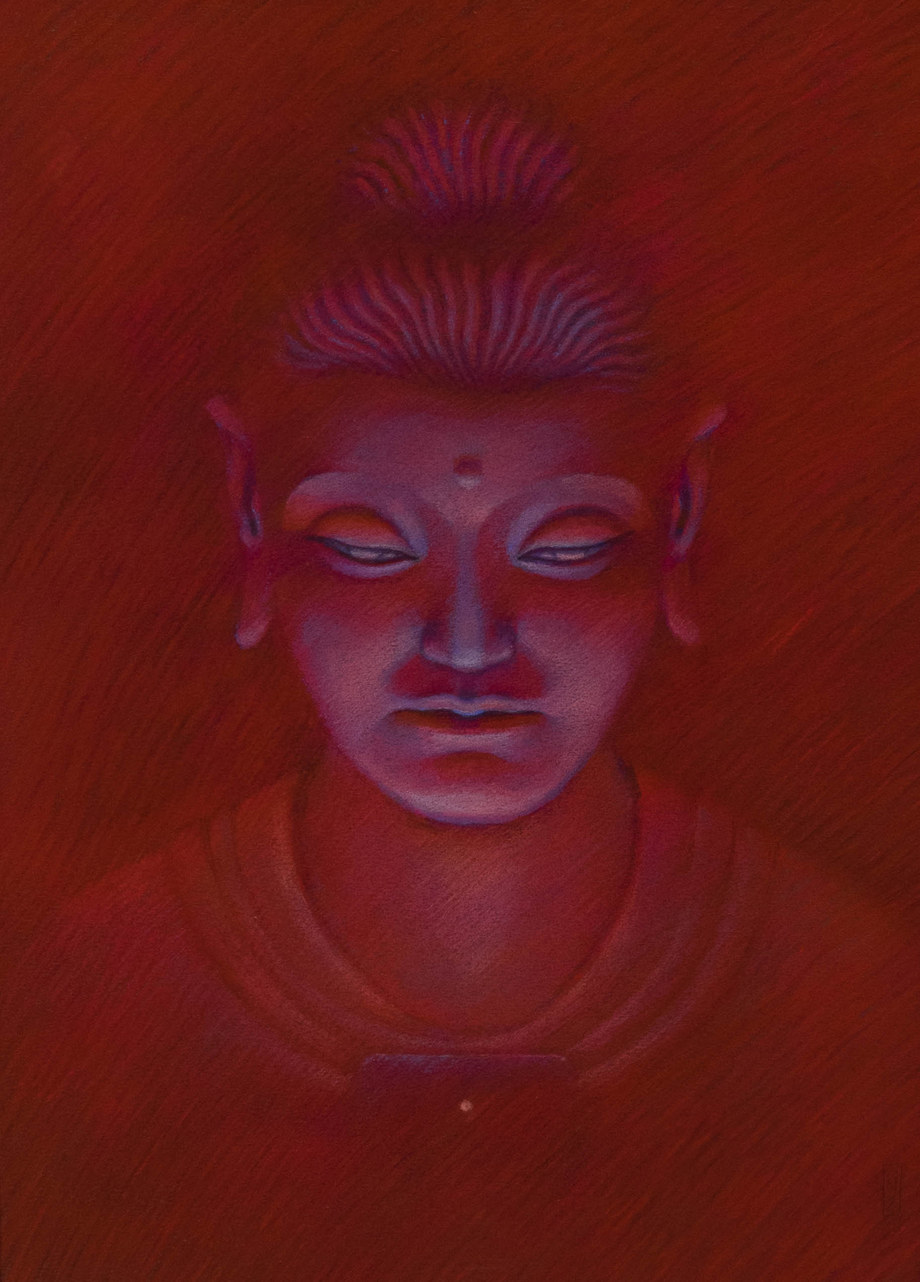
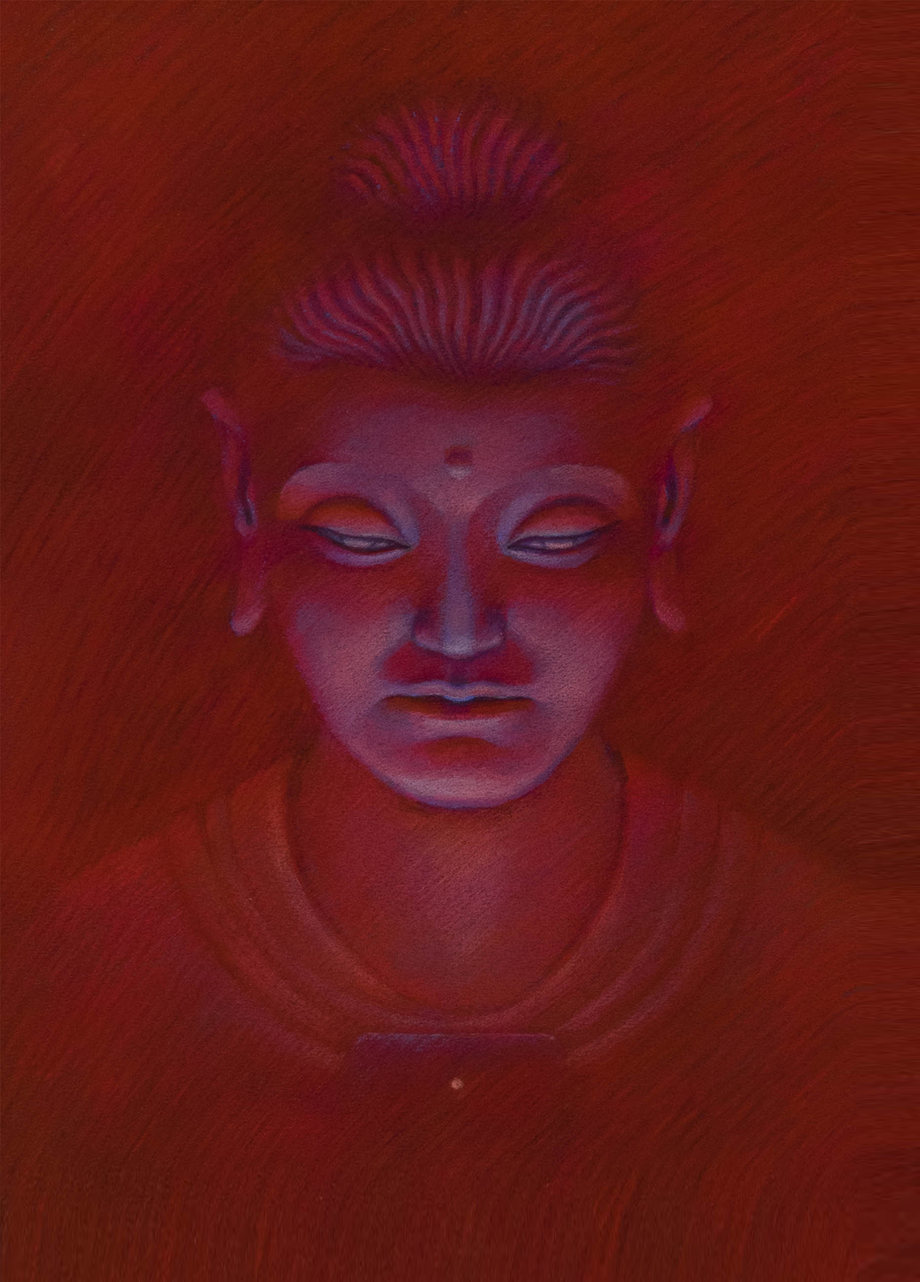
buddha images overlay perfect

diff --git a/src/pages/Site/Content/English/Artworks/Illumination.js b/src/pages/Site/Content/English/Artworks/Illumination.js
@@ -5,7 +5,7 @@ export default function Illumination() {
     useEffect(() => {
         
         // Start slideshow on mounting
-        const intervalId = setInterval(illuminationSlideshow, 4200);
+        const intervalId = setInterval(illuminationSlideshow, 1000);
         return () => clearInterval(intervalId);
 
     }, []);
@@ -31,10 +31,16 @@ function IlluminationDescription() {
           <a href="https://www.katsuryna.com" target="_blank">www.katsuryna.com</a>
           </div>
           <p>Illumination presents the transformation of Buddha’s face in five steps. Through the nuanced changes of light and colors, the Buddha’s varied looks reflect the different spiritual spaces that Suryna has experienced through living in Hong Kong.</p>
-          
-          <IlluminationContent />
+<br />    <div id="buddhacontainer">
+            <img className="buddha" id="buddha1" src="/1.png" ></img>
+            <img className="buddha" id="buddha2" src="/2.png" ></img>
+            <img className="buddha" id="buddha3" src="/3.png" ></img>
+            <img className="buddha" id="buddha4" src="/4.png" ></img>
+            <img className="buddha" id="buddha5" src="/5.png" ></img>
+            </div>
           <p> Lit by warm natural light, the benign face of Buddha is the image Hong Kong aims to achieve via the many Buddha statues in the city. In contrast, inspired by the faces of people on the streets as they stare in concentration at their phones, the demonic look of Buddha lit by cold screen light mirrors an unflattering persona we often encounter/perform online through anonymous identity. The animation is made in collaboration with Sandu Cojocari.
-    Kat Suryna is an international figurative artist with a background in academic philosophy. She follows the tradition of Russian academic drawing and painting, in which she was formally instructed. Her work has been exhibited in Estonia, Hungary, Austria, and Hong Kong. Her art focuses on the human body, organic patterns in nature, and architectural narratives.</p>
+    <br /><br />Kat Suryna is an international figurative artist with a background in academic philosophy. She follows the tradition of Russian academic drawing and painting, in which she was formally instructed. Her work has been exhibited in Estonia, Hungary, Austria, and Hong Kong. Her art focuses on the human body, organic patterns in nature, and architectural narratives.</p>
+
         </div>
 
           </>
@@ -42,43 +48,6 @@ function IlluminationDescription() {
 
 }
 
-function IlluminationContent() {
-
-    if (imagesLoaded === undefined) {
-        var imagesLoaded = 0;
-        }
-      
-        function displayImagesOnLoad() {
-            imagesLoaded += 1;
-            if (imagesLoaded == 5) {
-                setTimeout(() => {
-                    document.getElementById("autosaveLoader").style.opacity = 0;
-                    setTimeout(() => {
-                        document.getElementById("buddhacontainer").style.display = 'block';
-                        document.getElementById("buddhacontainer").style.opacity = 1;
-                    }, 1000);
-                    
-                }, 2000);
-
-            }
-        }
-    
-    return (
-
-        <>
-            <div id="loaderContainer">
-            <div id="autosaveLoader"></div>
-            </div>
-            <div id="buddhacontainer">
-            <img className="buddha" id="buddha1" src="/1.png" onLoad={displayImagesOnLoad}></img>
-            <img className="buddha" id="buddha2" src="/2.png" onLoad={displayImagesOnLoad}></img>
-            <img className="buddha" id="buddha3" src="/3.png" onLoad={displayImagesOnLoad}></img>
-            <img className="buddha" id="buddha4" src="/4.png" onLoad={displayImagesOnLoad}></img>
-            <img className="buddha" id="buddha5" src="/5.png" onLoad={displayImagesOnLoad}></img>
-            </div>
-        </>
-    )
-}
 
 const illuminationSlideshow = (function () {
 

diff --git a/src/pages/Site/Content/English/Artworks/Butterflies.js b/src/pages/Site/Content/English/Artworks/Butterflies.js
@@ -29,11 +29,13 @@ export default function Butterflies() {
     return (
       
       <>
-        <div id="content_">
           <div id="description">
+
             <h3>Butterflies on the Wheel (2020)</h3>
+            <div className="artistsBox">
             <h4>Elaine Wong</h4>
             <a href="https://www.miss-wong.com" target="_blank">www.miss-wong.com</a>
+            </div>
             <p>Butterflies on the Wheel hails from a cruel imagery – the butterflies flew into a blender and broke their wings. The artwork aims to experiment with videography regarding different forms of presentation through interaction with space. Wong videotaped the cityscape of Hong Kong, and shattered the moving images into broken-down frames. She then projected the images onto her own living room wall. The polygonal and limited space generated multiple reflections, resulting in the fragmentalization of images. It seems to critique the fractured conditions of life caused by the deteriorating spatial capitalization in the city, or perhaps contemplates the relationship between women and the imagery of claustrophobia that Wong has also explored.
             Elaine Wong explores and unveils the manifolds of daily encounters and inner conditions. She regards her practice as an investigation of the potentials of art beyond representation, its relation to sensation, documentation and experience. Her works have been shown internationally, 107 Projects (Australia), the Hong Kong Heritage Museum, Oi! Street Art Space (Hong Kong), EXIS Korea, and Poland Szczecin European Film Festival.</p>
             <button style={{width: "50px", height: "50px"}} onClick={toFullscreen}></button>
@@ -42,7 +44,6 @@ export default function Butterflies() {
             <p id="manual" style={{textAlign: "center"}}>Click and drag the image to look around Wong's living room. <br />You may move closer to objects by scrolling.</p>
             { isFullscreen ? butterfliesFrame : <></>  }         
           </div>
-        </div>
         </div>
      </>
     )

diff --git a/src/pages/Site/Content/English/Artworks/Confidential.js b/src/pages/Site/Content/English/Artworks/Confidential.js
@@ -8,11 +8,22 @@ export default function Confidential() {
    
 <div id="description">
         <h3>Confidential Records: <br />Dual Metropolitans (2016 - 2018)</h3>
-        <iframe id="confidentialContent" title="vimeo-player" frameBorder="no" src="https://player.vimeo.com/video/297653544?h=4ccbbb86fe" fullscreen allowFullScreen mozallowfullscreen webkitallowfullscreen allow="autoplay; fullscreen" ></iframe>
         <div className="artistsBox">
           <h4>Vvzela Kook</h4>
           <a href="https://www.vvzela.co" target="_blank">www.vvzela.co</a>
           </div>
+        <>
+  <iframe
+    src="https://player.vimeo.com/video/297653544?h=4ccbbb86fe"
+    width={"100%"}
+    height={180}
+    frameBorder={0}
+    allow="autoplay; fullscreen; picture-in-picture"
+    allowFullScreen=""
+  />
+</>
+
+       
           <p style={{paddingBottom: "60px"}}>Confidential Records: Dual Metropolitans utilizes 3D animation to reconstruct the cyberspace of Kowloon Walled City and imagine what it would be like in the future governed by artificial intelligence. In reality, as an enclave inside Hong Kong during British colonization, Kowloon Walled City developed into a huge and comprehensive urban system. Ungoverned and outlandish, it has long served as an inspiration for cyberpunk-themed artworks. Kook’s project combines history, myth, and sci-fi narratives with digital media to dig into the aesthetics and architecture of dystopia.
           Vvzela Kook is a new media artist who mainly works in audiovisual mediums, including performance, theater, generative art and drawing. Kook’s works combine technology with her artistic practice to reproduce and convert urban cityscapes into an integrated virtual experience, guiding the audience on a cybernetic journey. Kook has participated and shown her works in Kathmandu Triennial, MoCA Taipei, Microwave International Media Festival (Hong Kong), PuSh Performing Art Festival (Vancouver), and Mill6 Foundation (Hong Kong)</p>
           </div>

diff --git a/src/styles/content/illumination.css b/src/styles/content/illumination.css
@@ -3,6 +3,18 @@
 /* These styles are applied to the content of the welcome screen */
 /* All welcome screen IDs start with the "wcs" prefix */
 
+#buddhacontainer {
+    position: relative;
+    top: 1px;
+    height: 640px;
+}
+
+.buddha {
+    
+    position: absolute;
+    top: 0px;
+    transition: opacity 3s;
+}
 
 img {
 
